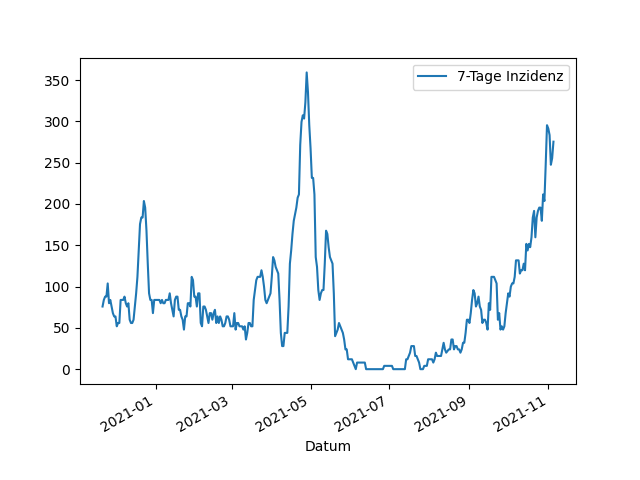
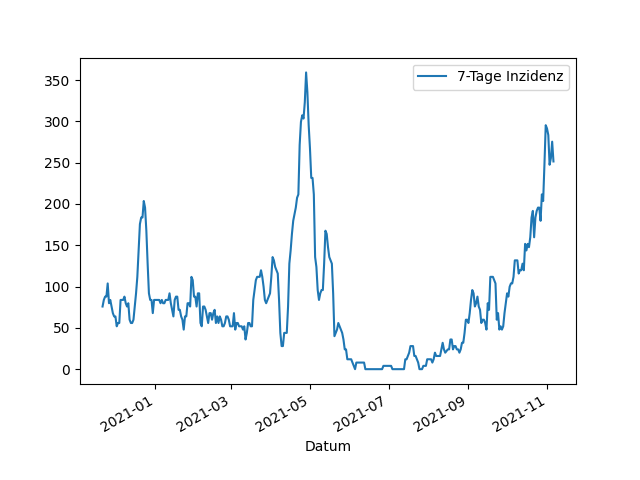
Update images

diff --git a/_includes/aktuelle_inzidenz.md b/_includes/aktuelle_inzidenz.md
@@ -1,1 +1,1 @@
-275,4
+251,5
